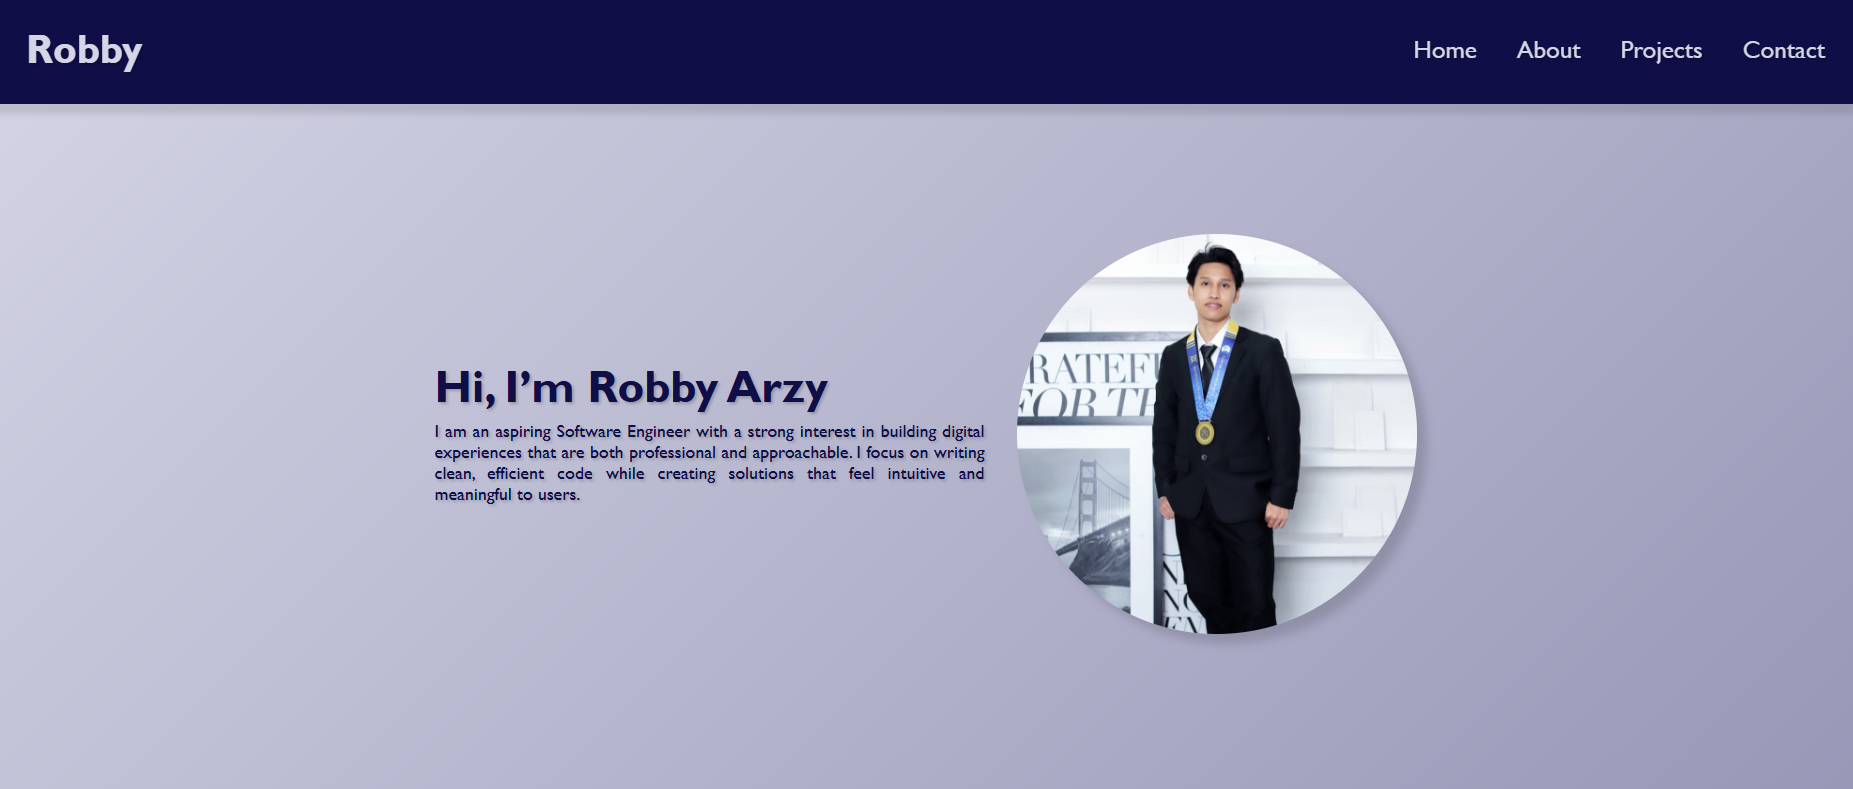
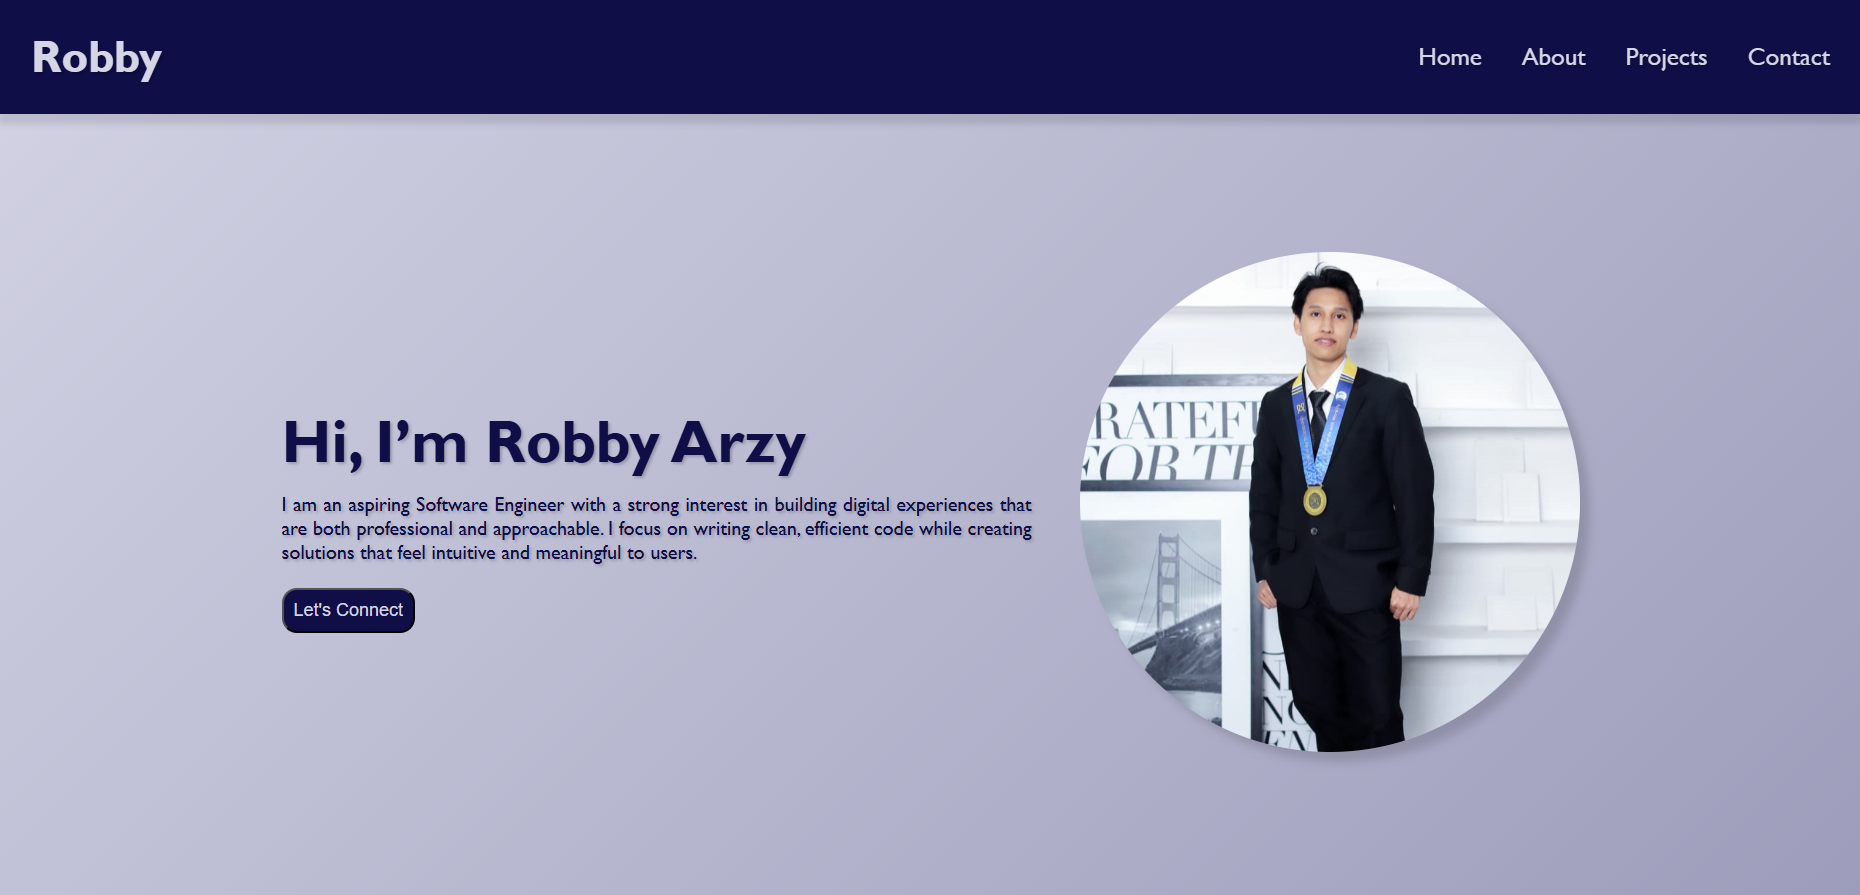
Update index.html, index.css, and image folder"

diff --git a/index.css b/index.css
@@ -7,14 +7,13 @@
     --hover1: #305CDE;
     --hover2: #59B5F7;
 
-    --fs-h1: 45px;
-    --fs-h2: 40px;
-    --fs-h3: 30px;
+    --fs-h1: 60px;
+    --fs-h2: 45px;
+    --fs-h3: 35px;
     --fs-nav-footer: 25px;
-    --fs-fc: 20px;
-    --fs-desc: 18px;
-    --fs-s: 16px;
-    --fs-xs: 14px;
+    --fs-fc-desc: 20px;
+    --fs-s: 18px;
+    --fs-xs: 16px;
 
     --shadow-container: 0 10px 6px rgba(0,0,0,0.1);
     --shadow-img: 10px 10px 10px rgba(0,0,0,0.15);
@@ -42,15 +41,16 @@
 .footer-container3 a{
     font-size: var(--fs-nav-footer);
 }
+.hero-description,
+.about-description1,
+.about-description2,
 .st-container2 figcaption,
 .projects-container figcaption,
 .social-links-list a{
-    font-size: var(--fs-fc);
+    font-size: var(--fs-fc-desc);
 }
-.hero-description,
-.about-description1,
-.about-description2{
-    font-size: var(--fs-desc);
+.hero-btn a, .cp-btn button{
+    font-size: var(--fs-s);
 }
 .navbar-container,
 .update-container{
@@ -108,6 +108,11 @@
 .cp-container textarea{
     box-shadow: var(--shadow-img);
 }
+.about,
+.projects,
+.contact{
+    padding: 8rem 0;
+}
 
 /* Global */
 *{
@@ -122,7 +127,7 @@ body{
     text-shadow: var(--shadow-text);
 }
 section{
-    scroll-margin-top: 140px;
+    scroll-margin-top: 110px;
 }
 hr{
     border: 0.5px solid black;
@@ -157,25 +162,48 @@ hr{
 }
 
 /* Hero */
+/* Hero Text */
 .hero{
     display: flex;
     justify-content: center;
     align-items: center;
-    gap: 2rem;
-    margin: 0 1rem;
+    gap: 3rem;
+    height: 115vh;
+    padding: 7rem 3rem 0;
 }
 .hero-image img{
-    width: 400px;
-    border-radius: 200px;
-    margin: 15rem 0 9.5rem;
+    width: 500px;
+    border-radius: 250px;
 }
 .hero-heading{
-    margin: 5rem 0 0.5rem;
     font-size: var(--fs-h1);
+    margin: 2rem 0 1rem;
 }
 .hero-description{
-    max-width: 550px;
+    max-width: 750px;
     text-align: justify;
+}
+/* Hero Button */
+.hero-btn{
+    padding-top: 1.5rem;
+}
+.hero-btn button{
+    padding: 10px;
+    border-radius: 15px;
+    background-color: var(--dark);
+    color: var(--light);
+    transition: transform 0.3s ease;
+}
+.hero-btn a{
+    text-decoration: none;
+    color: var(--light);
+}
+.hero-btn button:hover{
+    background-color: var(--hover2);
+    transform: translateY(-10px);
+}
+.hero-btn button:hover a{
+    color: var(--dark);
 }
 
 /* About */
@@ -183,7 +211,7 @@ hr{
 .about-heading{
     display: flex;
     justify-content: center;
-    padding: 4rem;
+    padding-bottom: 5rem;
 }
 .about-container1{
     display: flex;
@@ -194,8 +222,8 @@ hr{
     padding: 0 1rem 4rem;
 }
 .about-image img{
-    width: 300px;
-    border-radius: 40px;
+    width: 350px;
+    border-radius: 60px;
 }
 .about-heading1{
     margin-bottom: 1rem;
@@ -220,7 +248,7 @@ hr{
 }
 .st-container2 li{
     list-style-type: none;
-    padding: 4rem 0;
+    padding-top: 4rem;
 }
 .st-container2 img{
     width: 60px;
@@ -233,14 +261,13 @@ hr{
     flex-direction: column;
     align-items: center;
     gap: 2rem;
-    padding: 4rem 0;
+    padding-bottom: 5rem;
 }
 .projects-container{
     display: grid;
     grid-template-columns: repeat(3, 1fr);
     text-align: center;
-    gap: 3rem;
-    padding-bottom: 4rem;
+    gap: 5rem;
 }
 .projects-container article{
     transition: transform 0.3s ease;
@@ -250,8 +277,11 @@ hr{
 }
 .projects-container img{
     width: 100%;
-    max-width: 350px;
+    max-width: 450px;
     border-radius: 10px;
+}
+.projects-container figcaption{
+    padding-top: 1rem;
 }
 .projects-container figcaption:hover{
     color: var(--hover1);
@@ -267,8 +297,8 @@ hr{
     flex-direction: column;
     align-items: center;
     text-align: center;
-    padding: 4rem;
     gap: 2rem;
+    padding-bottom: 5rem;
 }
 .highlight2{
     color: var(--hover2);
@@ -277,13 +307,13 @@ hr{
 .contact-text{
     display: flex;
     justify-content: center;
-    padding: 0 1rem 4rem;
+    padding: 0 1rem;
     gap: 3rem;
 }
 .contact-placeholder{
     display: flex;
     flex-direction: column;
-    align-items: center;
+    align-items: center
 }
 .cp-input1,
 .cp-input2,
@@ -300,6 +330,9 @@ hr{
 .cp-input1{
     display: flex;
     gap: 1rem;
+}
+.text{
+    flex: 1;
 }
 .cp-container textarea{
     height: 150px;
@@ -354,8 +387,7 @@ hr{
 /* Success Message */
 .sc-container{
     display: flex;
-    justify-content: right;
-    margin-right: 0.3rem;
+    justify-content: center;
 }
 .success-message{
     opacity: 0;
@@ -440,26 +472,30 @@ footer{
     }
     .hero-container{
         order: 2;
-        margin-bottom: 4rem;
     }
     .hero-image img{
         width: 300px;
         order: 1;
-        margin: 11rem 0 0;
     }
     .hero-heading{
         text-align: center;
-        margin: 0 2rem 1.5rem;
     }
     .hero-description{
         text-align: justify;
         margin: 0 2rem;
+    }
+    .hero-btn{
+        display: flex;
+        justify-content: center;
     }
 
     /* About */
     .about-container1{
         flex-direction: column;
         align-items: center;
+    }
+    .about-image img{
+        width: 250px;
     }
 }
 @media(max-width: 768px){
@@ -480,17 +516,6 @@ footer{
         width: 100%;
     }
 
-    /* Hero */
-    .hero-image img{
-        margin-top: 13rem;
-    }
-
-    /* Footer */
-    .footer-wrapper{
-        flex-direction: column;
-    }
-}
-@media(max-width: 600px){
     /* Skill and Tools */
     .st-wrapper{
         overflow: hidden;
@@ -504,6 +529,13 @@ footer{
     .st-container2 li{
         flex: 0 0 100%;
     }
+
+    /* Footer */
+    .footer-wrapper{
+        flex-direction: column;
+    }
+}
+@media(max-width: 600px){
 
     /* Contact Text */
     .contact-text{
@@ -572,5 +604,10 @@ footer{
     /* Footer */
     .update-info{
         font-size: 8px;
+    }
+}
+@media(max-height: 600px){
+    .hero{
+        height: 170vh;
     }
 }

diff --git a/index.html b/index.html
@@ -29,6 +29,13 @@
                 <p class="hero-description">
                     I am an aspiring Software Engineer with a strong interest in building digital experiences that are both professional and approachable. I focus on writing clean, efficient code while creating solutions that feel intuitive and meaningful to users.
                 </p>
+                <div class="hero-btn">
+                    <button type="redirect" aria-label="Contact Me">
+                        <a href="#Contact">
+                            Let's Connect
+                        </a>
+                    </button>
+                </div>
             </div>
             <figure class="hero-image">
                 <img src="image/Profile_Picture.jpeg" alt="Robby Arzy Profile Picture"/>
@@ -165,11 +172,11 @@
                     <form id="form" class="cp-form" action="#" method="post">
                         <div class="cp-container">
                             <div class="cp-input1">
-                                <div class="text1">
+                                <div class="text">
                                     <label for="firstName">First Name</label>
                                     <input type="text" id="firstName" name="firstName" placeholder="Enter Your First Name" required>
                                 </div>
-                                <div class="text2">
+                                <div class="text">
                                     <label for="lastName">Last Name</label>
                                     <input type="text" id="lastName" name="lastName" placeholder="Enter Your Last Name" required>
                                 </div>
@@ -183,10 +190,7 @@
                                 <textarea id="message" name="message" placeholder="Enter Your Message" rows="5" required></textarea>
                             </div>
                             <div class="cp-btn">
-                                <button type="submit" aria-label="send message">Send Message</button>
-                                <div class="sc-container">
-                                <p id="success-message" class="success-message">Message Sent!</p>
-                            </div>                         
+                                <button type="submit" aria-label="send message">Send Message</button>                       
                             </div>
                         </div>
                     </form>
@@ -238,6 +242,9 @@
                     </div>
                 </section>
             </div>
+            <div class="sc-container">
+                <p id="success-message" class="success-message">Message Sent!</p>
+            </div>  
         </section>
         <!-- Contact End -->
     </main>
